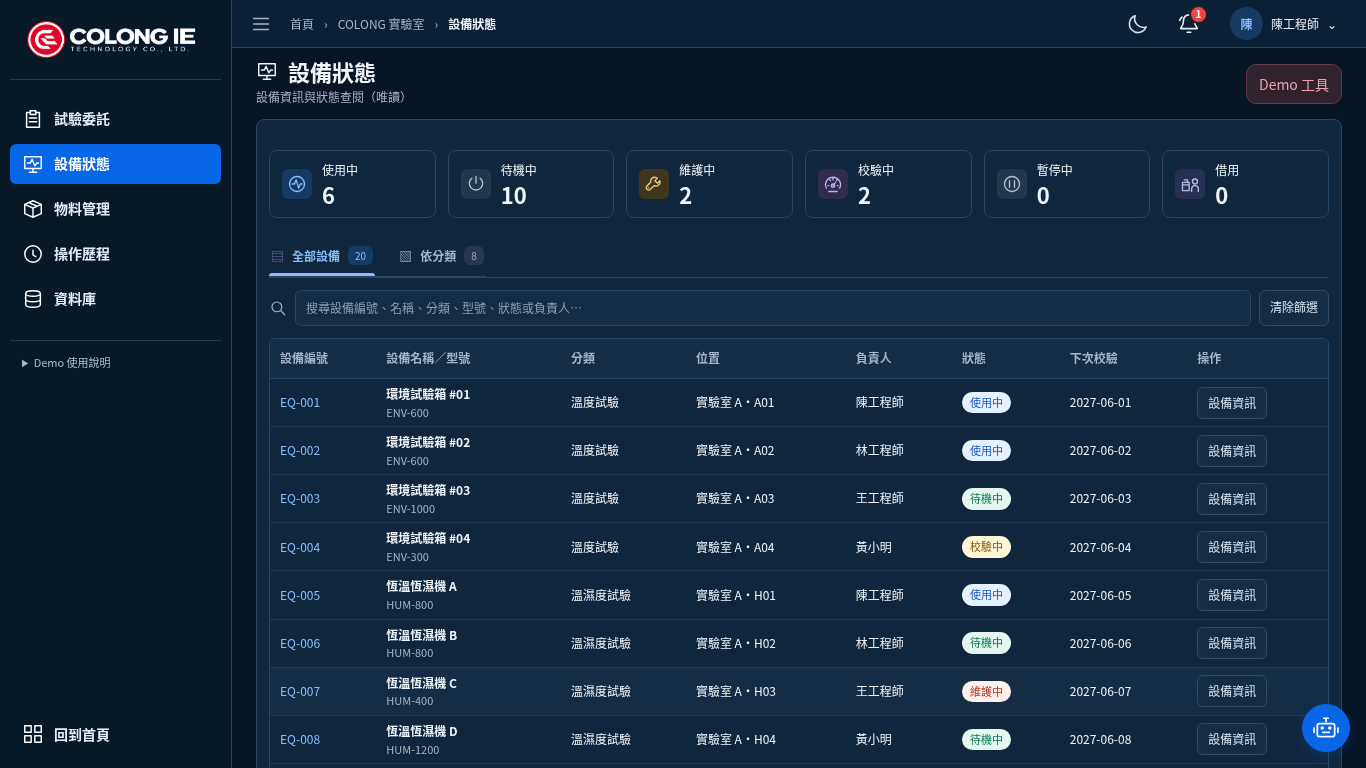
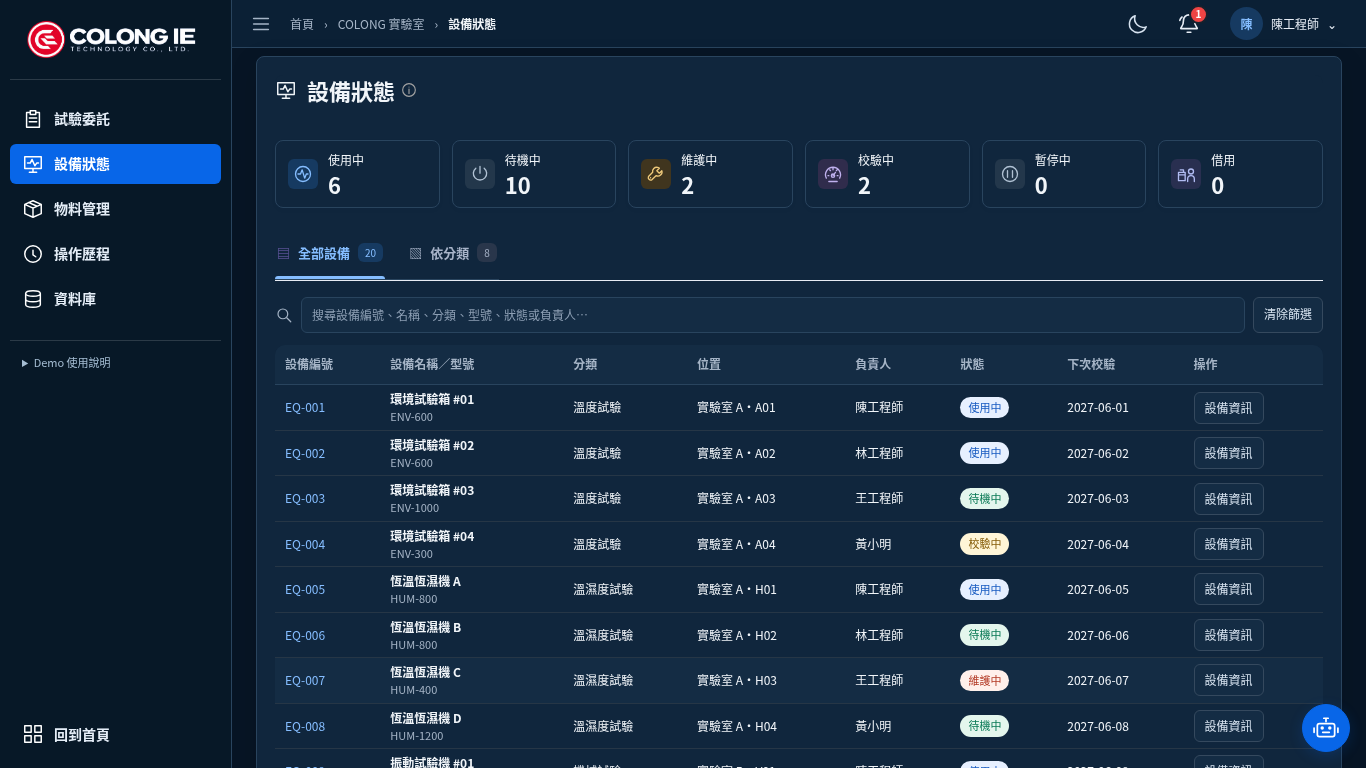
Reuse LMS catalog layout for Lab equipment and materials

diff --git a/src/LabApp.jsx b/src/LabApp.jsx
@@ -262,10 +262,10 @@ export default function LabApp({ path, navigate }) {
         <>{canAccessLabPage(account,'archive')&&canOpenReportArchive(sharedSnapshot.accounts.find(row=>row.id===account?.id),'lab')&&<button className={tab === "archive" ? "active" : ""} onClick={()=>chooseTab("archive")}><LmsSidebarIcon name="archive"/>資料庫</button>}</><details className="workspace-sidebar-note"><summary>Demo 使用說明</summary><p>展示環境 · LMS 已排程委託會同步至待確認清單。實驗室接收與操作歷程儲存於此瀏覽器，取消原安排需先進入 LMS 待核准；中斷申請由 LMS 一階主管審核。</p></details>
         <button className="lab-back workspace-sidebar-home" onClick={navigateHome}><LmsSidebarIcon name="dashboard"/>回到首頁</button>
       </aside>
-      <main className="lab-main"><div className="lab-workspace-heading"><h1><LmsSidebarIcon name={tab==='materials'?'maintenance':tab==='equipment'?'equipment':tab==='audit'?'history':tab==='archive'?'archive':'requests'}/>{tab==='materials'?'物料管理':tab==='equipment'?'設備狀態':tab==='archive'?'資料庫':tab==='audit'?'操作歷程':'試驗委託'}</h1><p>{tab==='materials'?'庫存、借出與物料資訊管理':tab==='equipment'?'設備資訊與狀態查閱（唯讀）':tab==='archive'?'試驗文件與報告查閱':tab==='audit'?'查看試驗接收、操作與申請紀錄':'接收試驗、掌握執行進度與提交報告'}</p></div>
+      <main className="lab-main">{!['materials','equipment'].includes(tab)&&<div className="lab-workspace-heading"><h1><LmsSidebarIcon name={tab==='materials'?'maintenance':tab==='equipment'?'equipment':tab==='audit'?'history':tab==='archive'?'archive':'requests'}/>{tab==='materials'?'物料管理':tab==='equipment'?'設備狀態':tab==='archive'?'資料庫':tab==='audit'?'操作歷程':'試驗委託'}</h1><p>{tab==='materials'?'庫存、借出與物料資訊管理':tab==='equipment'?'設備資訊與狀態查閱（唯讀）':tab==='archive'?'試驗文件與報告查閱':tab==='audit'?'查看試驗接收、操作與申請紀錄':'接收試驗、掌握執行進度與提交報告'}</p></div>}
         {lifecycleError&&<div className="lab-notice" role="alert">{lifecycleError}</div>}
         {(requestStorage.error || auditStorage.error) && <div role="alert" className="lab-notice">{requestStorage.error || auditStorage.error}<button onClick={() => { requestStorage.retry(); auditStorage.retry(); }}>重試儲存</button></div>}{notice && <div className="lab-notice" role="status">{notice}</div>}
-        {tab==='materials'?<div className={`lab-catalog-workspace lms-enterprise ${dark?'theme-dark':'theme-light'}`}><MaterialsPage currentUser={account}/></div>:tab==='equipment'?<div className={`lab-catalog-workspace lms-enterprise ${dark?'theme-dark':'theme-light'}`}><EquipmentPage currentUser={account} readOnly/></div>:tab === "archive" ? <ReportArchive actor={account} system="lab" showHeading={false}/> : tab === "requests" ? <>
+        {tab==='materials'?<div className={`lab-catalog-workspace lms-enterprise ${dark?'theme-dark':'theme-light'}`}><div className="dashboard-content"><MaterialsPage currentUser={account}/></div></div>:tab==='equipment'?<div className={`lab-catalog-workspace lms-enterprise ${dark?'theme-dark':'theme-light'}`}><div className="dashboard-content"><EquipmentPage currentUser={account} readOnly/></div></div>:tab === "archive" ? <ReportArchive actor={account} system="lab" showHeading={false}/> : tab === "requests" ? <>
           <div className="lab-stats lab-stats-with-scheduled lab-dashboard-stats">{[['待確認','clock','pending'],['已排程','flow','scheduled'],['試驗中','lab','running'],['已完成','shield','completed'],['已逾期','clock','overdue']].map(([status,icon,tone])=>{const match=item=>status==='已逾期'?labRequestOverdue(item,sharedSnapshot.schedules,labNow):item.status===status;return <button type="button" className="lab-stat-card" key={status} aria-pressed={requestFilter===status} aria-describedby={`lab-kpi-${tone}`} onClick={()=>setRequestFilter(current=>current===status?'all':status)}><span className={`lab-stat-icon lab-stat-${tone}`}><LoginSystemIcon kind={icon}/></span><div><span>{status}</span><strong>{requests.filter(match).length}</strong></div><span className="lab-kpi-arrow" aria-hidden="true"><WorkspaceDiagonalArrow/></span><small id={`lab-kpi-${tone}`} className="lab-kpi-hint">查看{status}的試驗委託；再次點擊顯示全部。</small></button>;})}</div>
           <section className="lab-panel lab-dashboard-overview"><div className="lab-panel-heading"><div><div className="help-title-row"><h2>試驗委託清單</h2><HelpTip>確認接收、試驗執行與主管審核申請</HelpTip></div></div><button type="button" className="lab-primary" onClick={addReportExample}>Demo試驗加速器</button></div>
             <div className="lab-table-wrap"><PaginatedTable><thead><tr><th>委託編號</th><th>專案／試驗</th><th>設備</th><th>樣品編號</th><th>試驗日程</th><th>狀態</th><th>操作</th></tr></thead><tbody>{requests.filter(item=>item.status!=="已結案"&&(requestFilter==='all'||(requestFilter==='已逾期'?labRequestOverdue(item,sharedSnapshot.schedules,labNow):item.status===requestFilter))).map(item => <tr key={item.id}>
@@ -274,8 +274,8 @@ export default function LabApp({ path, navigate }) {
             </tr>)}</tbody></PaginatedTable></div>{!requests.some(item=>item.status!=='已結案'&&(requestFilter==='all'||(requestFilter==='已逾期'?labRequestOverdue(item,sharedSnapshot.schedules,labNow):item.status===requestFilter)))&&<div className="lab-empty" role="status">目前篩選條件下沒有試驗委託。</div>}
           </section>
         </> : <section className="lab-panel"><div className="lab-panel-heading"><div><div className="help-title-row"><h2>本機操作歷程</h2><HelpTip>示範用追加紀錄，尚未具備正式後端不可竄改稽核機制</HelpTip></div></div></div><div className="lab-table-wrap"><PaginatedTable><thead><tr><th>時間</th><th>委託編號</th><th>操作</th><th>操作者</th><th>原因</th><th>簽名</th></tr></thead><tbody>{audit.length ? audit.map(event => <tr key={event.id}><td>{event.time}</td><td><button type="button" className="lab-request-link" onClick={()=>setDetail(requests.find(row=>row.id===event.requestId)||{id:event.requestId})}>{event.requestId}</button></td><td>{event.action}</td><td>{event.actor}</td><td>{event.reason}</td><td>{event.signature ? <SignatureHistory records={auditSignatures([event], event.requestId)} /> : "舊紀錄未提供簽名"}</td></tr>) : <tr><td colSpan="6">尚無操作紀錄</td></tr>}</tbody></PaginatedTable></div></section>}
-      <div className={`lab-shared-tools lms-enterprise ${dark?'theme-dark':'theme-light'}`}><IntelligentAssistant system="lab" snapshot={{...sharedSnapshot,labWorkItems:requests}} metrics={labMetrics}/></div></main>
-      <ClearCasesButton />
+      {['materials','equipment'].includes(tab)&&<ClearCasesButton inline/>}<div className={`lab-shared-tools lms-enterprise ${dark?'theme-dark':'theme-light'}`}><IntelligentAssistant system="lab" snapshot={{...sharedSnapshot,labWorkItems:requests}} metrics={labMetrics}/></div></main>
+      {!['materials','equipment'].includes(tab)&&<ClearCasesButton />}
       {equipmentRequest&&(()=>{const schedule=sharedSnapshot.schedules.find(r=>r.requestId===equipmentRequest);const machines=sharedSnapshot.equipment.filter(m=>schedule&&usesEquipment(schedule,m));return equipmentChoice?<EquipmentInfoModal equipment={machines.find(m=>m.id===equipmentChoice)||{id:equipmentChoice,name:'設備已移除'}} onClose={()=>{setEquipmentChoice(null);setEquipmentRequest(null);}}/>:<div className="lab-modal-backdrop"><section className="lab-modal" role="dialog" aria-label="試驗設備狀態"><h2>設備狀態｜{equipmentRequest}</h2>{machines.map(m=><p key={m.id}><button type="button" onClick={()=>setEquipmentChoice(m.id)}>{m.id} · {m.name} · {m.status}</button></p>)}{!machines.length&&<p>目前無對應設備。</p>}<button type="button" onClick={()=>setEquipmentRequest(null)}>關閉</button></section></div>;})()}
       {detail && <RequestInfoModal account={account} request={labRequestInformation(detail,sharedSnapshot)} onClose={()=>setDetail(null)}/>}
       {downloadJob && <div className="lab-modal-backdrop"><section className="lab-modal" role="dialog" aria-modal="true" aria-labelledby="download-title"><h2 id="download-title">取得試驗報告單</h2><p>委託編號：{downloadJob.id}</p><p>正在準備 Excel 範本</p><div style={{height:12,background:"#e5edf8",borderRadius:8,overflow:"hidden"}} role="progressbar" aria-label="下載準備進度" aria-valuemin={0} aria-valuemax={100} aria-valuenow={downloadProgress}><div style={{height:"100%",width:`${downloadProgress}%`,background:"#286bc4"}} /></div><p>{downloadProgress}%</p>{downloadProgress === 100 && <><p>已開始下載空白範本，請依委託資料填寫。</p><div className="lab-modal-actions"><button onClick={()=>downloadCaseTemplate(downloadJob.id).catch(error=>setNotice(error.message))}>重新下載</button><button className="lab-primary" onClick={() => setDownloadJob(null)}>關閉</button></div></>}</section></div>}

diff --git a/src/LabWorkspaceExpansion.css b/src/LabWorkspaceExpansion.css
@@ -13,10 +13,6 @@ html body #root .lab-shell.lab-enterprise .lab-main .archive-tabs{margin:0 0 10p
 html body #root .lab-shell.lab-enterprise .lab-main .archive-tabs button{min-height:36px;padding:8px 2px;font-size:12px}
 html body #root .lab-shell.lab-enterprise .lab-main .archive-toolbar{margin:0 0 12px;padding:0}
 html body #root .lab-shell.lab-enterprise .lab-main .archive-toolbar input{height:36px;min-height:36px;padding:6px 10px;font-size:12px}
-html body #root .lab-shell.lab-enterprise .lab-catalog-workspace>.panel{padding:0;border:0;background:transparent}
-html body #root .lab-shell.lab-enterprise .lab-catalog-workspace .template-heading>div:first-child{display:none}
-html body #root .lab-shell.lab-enterprise .lab-catalog-workspace .equipment-page:not(.materials-page) .template-heading{display:none}
-html body #root .lab-shell.lab-enterprise .lab-catalog-workspace .equipment-header-actions{margin-left:auto}
 html body #root .lab-shell.lab-enterprise{position:relative}
 html body #root .lab-shell.lab-enterprise>.clear-cases-control{position:absolute;top:64px;right:24px;bottom:auto;flex-direction:column-reverse}
 @media(max-width:1100px){html body #root .lab-shell.lab-enterprise .lab-stats.lab-dashboard-stats{grid-template-columns:repeat(3,minmax(0,1fr))}}
@@ -26,25 +22,23 @@ html body #root .lab-shell.lab-enterprise .lab-dashboard-overview td small.lab-t
 html body #root .lab-shell.lab-enterprise .lab-dashboard-stats .lab-kpi-arrow{color:var(--tab-accent)!important}
 
 /* Lab catalogs and the database share one aligned content surface. */
-html body #root .lab-shell.lab-enterprise .lab-main:has(>.lab-catalog-workspace,>.archive-page)>.lab-workspace-heading{margin-bottom:12px}
-html body #root .lab-shell.lab-enterprise .lab-main .lab-catalog-workspace>.panel{padding:0;border:0!important;background:transparent!important;box-shadow:none}
-html body #root .lab-shell.lab-enterprise .lab-main .lab-catalog-workspace>.panel>.template-page,
+html body #root .lab-shell.lab-enterprise .lab-main:has(>.archive-page)>.lab-workspace-heading{margin-bottom:12px}
 html body #root .lab-shell.lab-enterprise .lab-main>.archive-page{padding:12px;border:1px solid var(--enterprise-border)!important;border-radius:8px;background:var(--enterprise-card)!important;box-shadow:0 2px 6px #132d4b06}
 html body #root .lab-shell.lab-enterprise .lab-main>.archive-page>.template-page{padding:0;margin:0;border:0;border-radius:0;background:transparent;box-shadow:none}
-html body #root .lab-shell.lab-enterprise .lab-catalog-workspace .materials-page .template-heading{margin:0 0 12px;padding:0;min-height:34px;display:flex;justify-content:flex-end}
-html body #root .lab-shell.lab-enterprise .lab-catalog-workspace .catalog-category-views{margin:12px 0 0;padding:0;border:0;border-radius:0;background:transparent;box-shadow:none}
-html body #root .lab-shell.lab-enterprise .lab-catalog-workspace .schedule-view-top{margin:0 0 12px;border-bottom:1px solid var(--enterprise-border)}
-html body #root .lab-shell.lab-enterprise .lab-catalog-workspace .schedule-view-tabs button{min-height:40px;padding:10px 2px;font-size:12px}
-html body #root .lab-shell.lab-enterprise .lab-main :is(.template-table-wrap,.archive-table-wrap){border:1px solid var(--enterprise-border);border-radius:6px;overflow:auto;max-width:100%;box-shadow:none}
-html body #root .lab-shell.lab-enterprise .lab-main :is(.template-table-wrap,.archive-table-wrap) table{border:0;margin:0;width:100%;border-collapse:collapse}
-html body #root .lab-shell.lab-enterprise .lab-main :is(.template-table-wrap,.archive-table-wrap) :is(th,td){padding:7px 10px;border:0;border-bottom:1px solid var(--enterprise-border);font-size:12px;line-height:1.4;vertical-align:middle}
-html body #root .lab-shell.lab-enterprise .lab-main :is(.template-table-wrap,.archive-table-wrap) th{background:var(--soft)!important;color:var(--enterprise-secondary)}
-html body #root .lab-shell.lab-enterprise .lab-main :is(.template-table-wrap,.archive-table-wrap) tbody tr:last-child td{border-bottom:0}
-html body #root .lab-shell.lab-enterprise .lab-main .catalog-search-toolbar{display:flex;align-items:center;gap:8px;margin:0 0 12px;padding:0;border:0;background:transparent!important}
-html body #root .lab-shell.lab-enterprise .lab-main .catalog-search-toolbar .schedule-search-wrap{display:flex;align-items:center;flex:1;min-width:0;gap:8px;margin:0;padding:0;border:0;background:transparent}
-html body #root .lab-shell.lab-enterprise .lab-main .catalog-search-toolbar .schedule-search-wrap svg{width:18px;height:18px;flex:none;color:var(--enterprise-secondary)}
-html body #root .lab-shell.lab-enterprise .lab-main .catalog-search-toolbar input{box-sizing:border-box;min-width:0;width:100%;height:36px!important;min-height:36px!important;margin:0;padding:6px 10px!important;font-size:12px!important;border:1px solid var(--enterprise-border);border-radius:6px;background:var(--enterprise-input);color:var(--enterprise-text)}
-html body #root .lab-shell.lab-enterprise .lab-main .catalog-search-toolbar .catalog-search-clear{height:36px;min-height:36px;flex:none;margin:0;padding:6px 10px;border:1px solid var(--enterprise-border);border-radius:6px;background:var(--enterprise-card);color:var(--enterprise-text);font-size:12px;line-height:1.4}
+html body #root .lab-shell.lab-enterprise .lab-main .archive-table-wrap{border:1px solid var(--enterprise-border);border-radius:6px;overflow:auto;max-width:100%;box-shadow:none}
+html body #root .lab-shell.lab-enterprise .lab-main .archive-table-wrap table{border:0;margin:0;width:100%;border-collapse:collapse}
+html body #root .lab-shell.lab-enterprise .lab-main .archive-table-wrap :is(th,td){padding:7px 10px;border:0;border-bottom:1px solid var(--enterprise-border);font-size:12px;line-height:1.4;vertical-align:middle}
+html body #root .lab-shell.lab-enterprise .lab-main .archive-table-wrap th{background:var(--soft)!important;color:var(--enterprise-secondary)}
+html body #root .lab-shell.lab-enterprise .lab-main .archive-table-wrap tbody tr:last-child td{border-bottom:0}
+html body #root .lab-shell.lab-enterprise .lab-main>.archive-page .catalog-search-toolbar{display:flex;align-items:center;gap:8px;margin:0 0 12px;padding:0;border:0;background:transparent!important}
+html body #root .lab-shell.lab-enterprise .lab-main>.archive-page .catalog-search-toolbar .schedule-search-wrap{display:flex;align-items:center;flex:1;min-width:0;gap:8px;margin:0;padding:0;border:0;background:transparent}
+html body #root .lab-shell.lab-enterprise .lab-main>.archive-page .catalog-search-toolbar .schedule-search-wrap svg{width:18px;height:18px;flex:none;color:var(--enterprise-secondary)}
+html body #root .lab-shell.lab-enterprise .lab-main>.archive-page .catalog-search-toolbar input{box-sizing:border-box;min-width:0;width:100%;height:36px!important;min-height:36px!important;margin:0;padding:6px 10px!important;font-size:12px!important;border:1px solid var(--enterprise-border);border-radius:6px;background:var(--enterprise-input);color:var(--enterprise-text)}
+html body #root .lab-shell.lab-enterprise .lab-main>.archive-page .catalog-search-toolbar .catalog-search-clear{height:36px;min-height:36px;flex:none;margin:0;padding:6px 10px;border:1px solid var(--enterprise-border);border-radius:6px;background:var(--enterprise-card);color:var(--enterprise-text);font-size:12px;line-height:1.4}
 html body #root .lab-shell.lab-enterprise .lab-main .archive-tabs{gap:16px;margin:0 0 12px;border-bottom:1px solid var(--enterprise-border)}
 html body #root .lab-shell.lab-enterprise .lab-main .archive-tabs button{margin:0;min-height:40px;padding:10px 2px;border-radius:0}
-@media(max-width:600px){html body #root .lab-shell.lab-enterprise .lab-main .archive-tabs{gap:14px;overflow-x:auto}html body #root .lab-shell.lab-enterprise .lab-main .archive-tabs button{white-space:nowrap;flex:none}html body #root .lab-shell.lab-enterprise .lab-catalog-workspace .equipment-header-actions{gap:8px;flex-wrap:wrap}}
+@media(max-width:600px){html body #root .lab-shell.lab-enterprise .lab-main .archive-tabs{gap:14px;overflow-x:auto}html body #root .lab-shell.lab-enterprise .lab-main .archive-tabs button{white-space:nowrap;flex:none}}
+/* Reuse the LMS catalog shell and components, including the in-panel title. */
+html body #root .lab-shell.lab-enterprise .lab-catalog-workspace>.dashboard-content{padding:0;display:block;overflow:visible;width:100%;min-height:0}
+html body #root .lab-shell.lab-enterprise .lab-catalog-workspace>.dashboard-content>.panel{margin:0}
+html body #root .lab-shell.lab-enterprise .lab-main>.clear-cases-control{position:static;inset:auto;margin:12px 0 0;width:100%;align-items:flex-end;flex-direction:column;z-index:auto}

diff --git a/docs/lab-page-format/README.md b/docs/lab-page-format/README.md
@@ -1,9 +1,9 @@
 # 實驗室物料、設備與資料庫格式
 
-- 物料管理／設備狀態移除重疊內容外框與分類區外框，保留單一內容卡片。
-- 三頁內容卡片統一12px內距、8px圓角與主題細框；頁籤、搜尋、表格左右對齊。
-- 表格保留單一6px圓角外框與水平分隔線，統一字體、列內距與表頭底色。
-- 物料新增／狀態操作列收緊；設備狀態保持唯讀，不開放變更屬性或狀態。
+- 物料管理／設備狀態改為與LMS相同的共用目錄版型：標題移入框內，移除框外重複標題與實驗室專用樣式覆蓋。
+- 兩個目錄頁使用LMS的框內標題、統計方塊、頁籤、搜尋與列表內距；資料庫保留前版12px內距，三頁使用企業藍色與深淺色主題。
+- 目錄表格同步LMS的無額外外框、水平分隔線、字體與列內距；資料庫維持既有細框。
+- 物料新增／狀態操作列隨LMS版型排列；設備標題仍為「設備狀態」並保持唯讀，不開放變更屬性或狀態。兩頁Demo工具移至內容下方，避免遮擋操作。
 - 實驗室資料庫使用同樣的36px放大鏡搜尋欄，加入清除搜尋；報告權限、範本下載不變。
 - 修正資料庫側欄按鈕的active class運算，避免錯誤的React元素被當作className。
 
